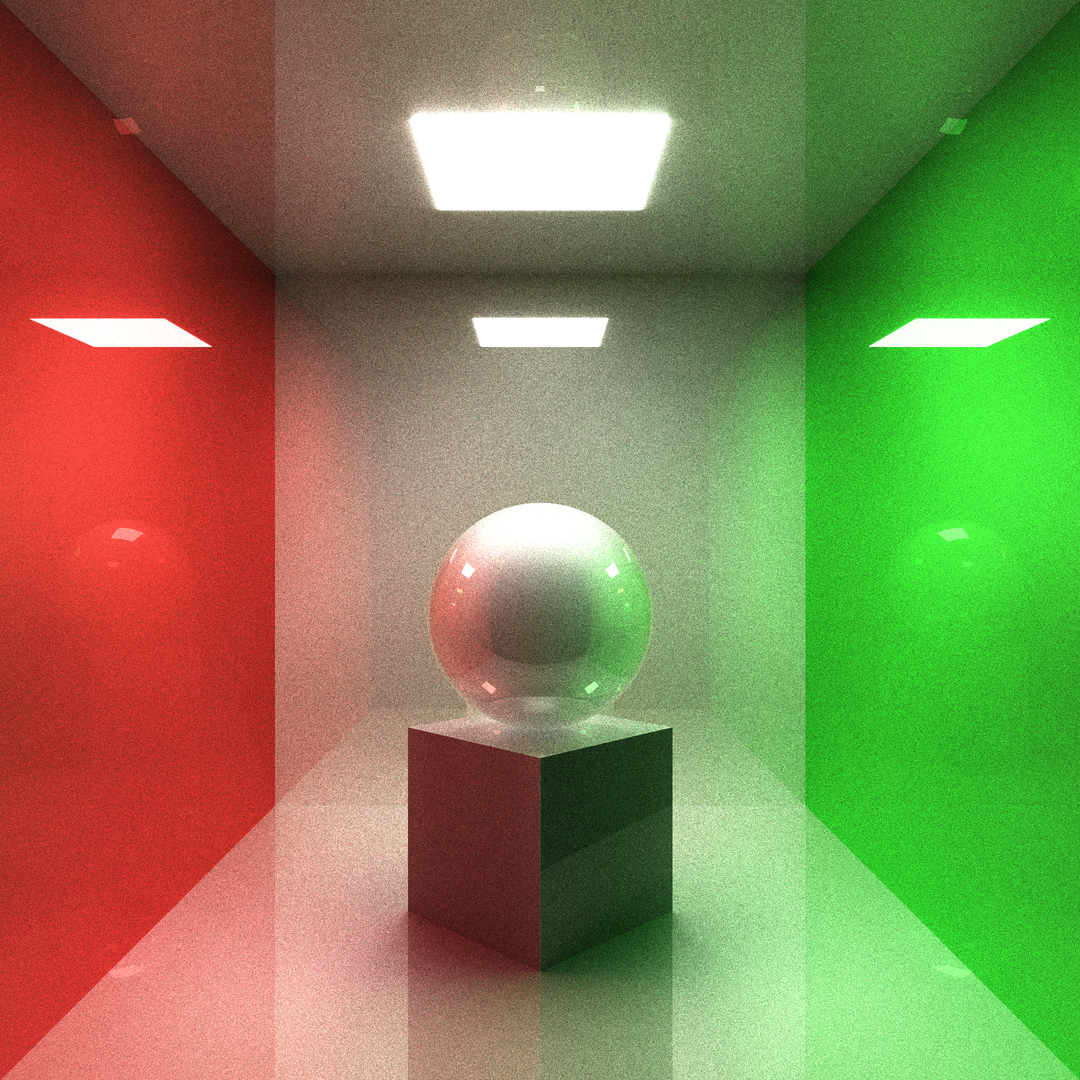
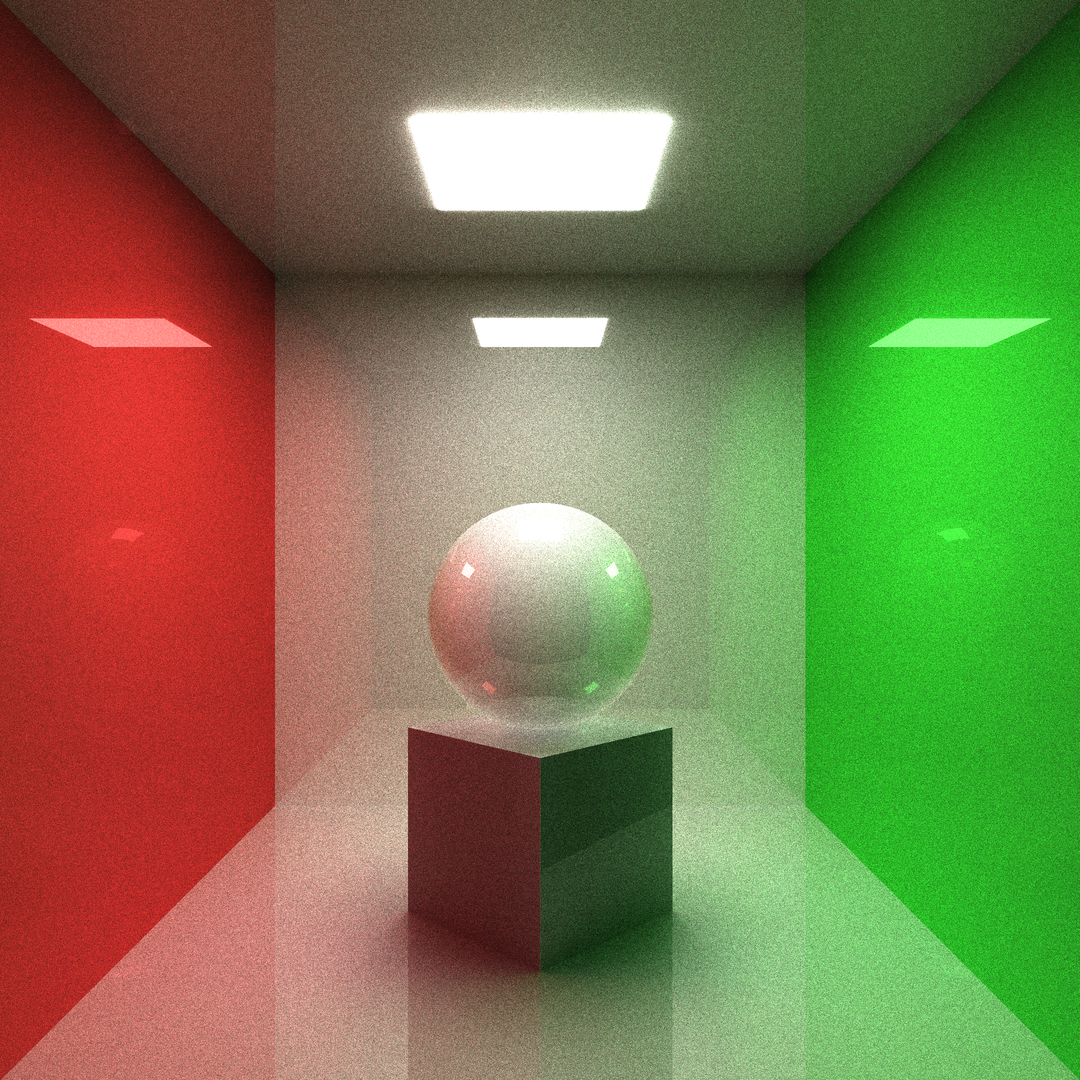
rt: fixed sampler

diff --git a/src/rt.rs b/src/rt.rs
@@ -492,12 +492,12 @@ impl Ray {
         let mut rough = hit.get_rough();
         let opacity = hit.get_opacity();
 
-        // 70% chance to diffuse for dielectric
-        if hit.obj.mat.metal == 0.0 && opacity != 0.0 && rand::thread_rng().gen_bool(0.70) {
+        // 80% chance to diffuse for dielectric
+        if hit.obj.mat.metal == 0.0 && opacity != 0.0 && rand::thread_rng().gen_bool(0.80) {
             rough = 1.0;
         }
 
-        let norm = (hit.norm.0 + rough * rt.rand()).norm();
+        let norm = rt.rand(hit.norm.0, rough);
         let dir = self.dir.reflect(norm).norm();
 
         Ray::cast(self.into(), dir, self.pwr * (1.0 - rt.loss.min(1.0)), self.bounce + 1)
@@ -507,12 +507,12 @@ impl Ray {
         let mut rough = hit.get_rough();
         let opacity = hit.get_opacity();
 
-        // 75% chance to diffuse for dielectric
-        if hit.obj.mat.metal == 0.0 && opacity != 0.0 && rand::thread_rng().gen_bool((1.0 - rough).min(0.75).into()) {
+        // 80% chance to diffuse for dielectric
+        if hit.obj.mat.metal == 0.0 && opacity != 0.0 && rand::thread_rng().gen_bool(0.80) {
             rough = 1.0;
         }
 
-        let norm = (hit.norm.1 + rough * rt.rand()).norm();
+        let norm = rt.rand(hit.norm.1, rough);
 
         let eta = 1.0 + 0.5 * hit.get_glass();
         let dir = self.dir.refract(eta, norm)?.norm();
@@ -997,15 +997,17 @@ impl RayTracer {
         })
     }
 
-    pub fn rand(&self) -> Vec3f {
-        let th = rand::thread_rng().sample(self.sampler) * PI;
-        let phi = (rand::thread_rng().sample(self.sampler) * 2.0 - 1.0) * PI;
+    pub fn rand(&self, n: Vec3f, r: f32) -> Vec3f {
+        let th = (1.0 - 2.0 * rand::thread_rng().sample(self.sampler)).acos();
+        let phi = rand::thread_rng().sample(self.sampler) * 2.0 * PI;
 
-        Vec3f {
+        let v = Vec3f {
             x: th.sin() * phi.cos(),
             y: th.sin() * phi.sin(),
             z: th.cos()
-        }
+        };
+
+        (n + r * v).norm()
     }
 
     pub fn default_sampler() -> Uniform<f32> {

diff --git a/src/bin/raytrace.rs b/src/bin/raytrace.rs
@@ -268,15 +268,17 @@ fn main() {
     let out_img = image::imageops::resize(&img, frame_sync.res.0 as u32, frame_sync.res.1 as u32, image::imageops::FilterType::Lanczos3);
     out_img.save(filename).unwrap();
 
-    // test raytracer sampler
+    // // test raytracer sampler
     // let mut img = image::ImageBuffer::new(512, 512);
 
     // for _ in 0..10000 {
-    //     let v = rt.rand();
-    //     let x = 256.0 + 128.0 * v.x;
-    //     let y = 256.0 + 128.0 * v.y;
+    //     let n = Vec3f::from([0.5, 0.0, 1.0]).norm();
+    //     let r = 1.0;
+    //     let v = rt.rand(n, r);
 
-    //     img.put_pixel(x as u32, y as u32, image::Rgb::<u8>([255, 255, 255]));
+    //     img.put_pixel((128.0 + 96.0 * v.x) as u32, (128.0 - 96.0 * v.y) as u32, image::Rgb::<u8>([255, 255, 255]));
+    //     img.put_pixel((384.0 + 96.0 * v.x) as u32, (128.0 - 96.0 * v.z) as u32, image::Rgb::<u8>([255, 255, 255]));
+    //     img.put_pixel((256.0 + 96.0 * v.y) as u32, (384.0 - 96.0 * v.z) as u32, image::Rgb::<u8>([255, 255, 255]));
     // }
 
     // img.save(std::path::PathBuf::from("test.png")).unwrap();

diff --git a/src/lin.rs b/src/lin.rs
@@ -410,6 +410,17 @@ impl From<&[f32]> for Vec3f {
     }
 }
 
+impl From<Vec3f> for Vec4f {
+    fn from(v: Vec3f) -> Self {
+        Vec4f {
+            w: 0.0,
+            x: v.x,
+            y: v.y,
+            z: v.z
+        } 
+    }
+}
+
 impl From<Vec4f> for [f32; 4] {
     fn from(v: Vec4f) -> Self {
         [v.w, v.x, v.y, v.z]

diff --git a/README.md b/README.md
@@ -19,7 +19,7 @@ raytrace --obj sph r: 0.2 rough: 1 \
          --obj pln n: -1 0 0 pos: 1 0 0 albedo: 0 1 0 rough: 1 \
          --obj pln n: 1 0 0 pos: -1 0 0 albedo: 1 0 0 rough: 1 \
          --obj pln n: 0 -1 0 pos: 0 1 0 rough: 1 \
-         --cam fov: 60 gamma: 0.8 exp: 0 \
+         --cam fov: 60 gamma: 1.0 exp: 0 \
          --bounce 16 --sample 512 \
          --res 1920 1080 --ssaa 2
 ```
